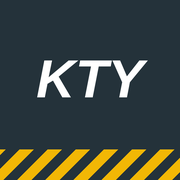
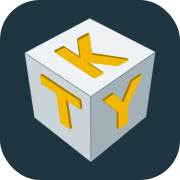
Add files via upload

diff --git a/payroll.js b/payroll.js
@@ -168,7 +168,7 @@ const MM=3.7795;
 const PPRINT_DEF={margin:{t:12,r:10,b:12,l:10},font:11,sign:true,sign_w:34,widths:{}};
 const pprint = () => { const s={...(S.settings.payroll_print||{}),...(activeSet()?.print||{})}; return {...PPRINT_DEF,...s,margin:{...PPRINT_DEF.margin,...(s.margin||{})},widths:{...(s.widths||{})}}; };
 const qrSvgOf = t => { const q=qrcode(0,'M'); q.addData(t); q.make(); return q.createSvgTag({cellSize:2,margin:0,scalable:true}); };
-function pgHead(p,t,qrUrl){ const B=BR(); return `<div class="pg-head">${B.logo?`<img src="${B.logo}" crossorigin="anonymous" alt="">`:`<span class="pg-mark">${esc(B.mark)}</span>`}<div class="grow"><b>${esc(B.company_th)}</b><span>${esc(B.company_en)}</span></div><div class="pg-ti"><b>${t}</b><span>งวดวันที่ ${periodLabel(p)}</span></div>${qrUrl&&window.qrcode?`<div class="pg-qr">${qrSvgOf(qrUrl)}<small>สแกนดูย้อนหลัง</small></div>`:''}</div>`; }
+function pgHead(p,t,qrUrl){ const B=BR(); return `<div class="pg-head">${B.logo?`<img src="${B.logo}" crossorigin="anonymous" alt="">`:`<img src="brand/kty-mark.svg" alt="">`}<div class="grow"><b>${esc(B.company_th)}</b><span>${esc(B.company_en)}</span></div><div class="pg-ti"><b>${t}</b><span>งวดวันที่ ${periodLabel(p)}</span></div>${qrUrl&&window.qrcode?`<div class="pg-qr">${qrSvgOf(qrUrl)}<small>สแกนดูย้อนหลัง</small></div>`:''}</div>`; }
 async function pdfFromPages(els, orient, name){
   await Promise.all([loadScript(LIB.h2c),loadScript(LIB.pdf)]); await document.fonts?.ready;
   const L=orient==='l', pdf=new jspdf.jsPDF({unit:'mm',format:'a4',orientation:L?'landscape':'portrait'});
@@ -228,7 +228,7 @@ async function paySlipsPreview(p, slips){
   const qrSvg=t=>{ const q=qrcode(0,'M'); q.addData(t); q.make(); return q.createSvgTag({cellSize:2,margin:0,scalable:true}); };
   const base=`${location.origin}${location.pathname}#pay/s/`, qrOf=s=>s.data.__emp?.qr_token?`${location.origin}${location.pathname}#id/${s.data.__emp.qr_token}`:base+s.id;
   for(let i=0;i<slips.length;i+=8){ const chunk=slips.slice(i,i+8);
-    pages.push(`<div class="a4 a4slips">${chunk.map(s=>{ const d=s.data; return `<div class="slip"><div class="sl-h">${logo?`<img src="${logo}" crossorigin="anonymous" alt="">`:`<span class="pg-mark sm">${esc(B.mark)}</span>`}<div class="grow"><b>${esc(B.company_short)}</b><span>สลิปเงินเดือน · งวด ${periodLabel(p)}</span></div><div class="sl-qr">${qrSvg(qrOf(s))}</div></div>
+    pages.push(`<div class="a4 a4slips">${chunk.map(s=>{ const d=s.data; return `<div class="slip"><div class="sl-h">${logo?`<img src="${logo}" crossorigin="anonymous" alt="">`:`<img src="brand/kty-mark.svg" alt="" style="width:26px;height:28px">`}<div class="grow"><b>${esc(B.company_short)}</b><span>สลิปเงินเดือน · งวด ${periodLabel(p)}</span></div><div class="sl-qr">${qrSvg(qrOf(s))}</div></div>
       <div class="sl-n"><b>${esc(d.name)}</b><span>${esc(d.emp_code||'')}${d.position?' · '+esc(d.position):''}</span></div>
       <div class="sl-r"><span>อัตราค่าแรง</span><b>${d.wage_type==='monthly'?`${fmtN(d.rate)} /เดือน`:`${fmtN(d.rate)} /วัน`}</b></div>
       <div class="sl-r"><span>วันทำงาน · OT</span><b>${fmtN(d.days)} วัน · ${fmtN(d.ot_hours)} ชม.</b></div>

diff --git a/index.html b/index.html
@@ -6,7 +6,8 @@
 <title>KTY Hub</title>
 <meta name="theme-color" content="#22313A">
 <link rel="manifest" href="manifest.json">
-<link rel="icon" href="icon-192.png">
+<link rel="icon" type="image/svg+xml" href="brand/kty-icon.svg">
+<link rel="icon" type="image/png" sizes="32x32" href="icon-32.png">
 <link rel="apple-touch-icon" sizes="180x180" href="icon-180.png">
 <meta name="apple-mobile-web-app-capable" content="yes">
 <meta name="apple-mobile-web-app-status-bar-style" content="black-translucent">
@@ -19,7 +20,7 @@
 /* ใช้รูปแบบสีที่เลือกไว้ก่อนวาดหน้า เพื่อไม่ให้จอกะพริบ */
 (function(){ try{ var t=localStorage.getItem('kty-theme'); if(t==='light'||t==='dark') document.documentElement.dataset.theme=t; }catch(e){} })();
 </script>
-<link rel="stylesheet" href="kty.css?v=310">
+<link rel="stylesheet" href="kty.css?v=320">
 
 </head>
 <body>
@@ -27,22 +28,22 @@
 <div id="offline" class="offline hidden"><div><b>ไม่มีการเชื่อมต่ออินเทอร์เน็ต</b>ระบบบันทึกได้เฉพาะตอนออนไลน์ เพื่อให้ข้อมูลตรงกันทุกเครื่อง เมื่อเชื่อมต่อแล้วหน้านี้จะหายไปเอง</div></div>
 
 <script src="config.js"></script>
-<script src="core.js?v=310"></script>
-<script src="attendance.js?v=310"></script>
-<script src="daily.js?v=310"></script>
-<script src="materials.js?v=310"></script>
-<script src="borrow.js?v=310"></script>
-<script src="forms.js?v=310"></script>
-<script src="paypdf.js?v=310"></script>
-<script src="payroll.js?v=310"></script>
-<script src="report.js?v=310"></script>
-<script src="self.js?v=310"></script>
-<script src="idcard.js?v=310"></script>
-<script src="issues.js?v=310"></script>
-<script src="wa.js?v=310"></script>
-<script src="adv.js?v=310"></script>
-<script src="studio.js?v=310"></script>
-<script src="hub.js?v=310"></script>
+<script src="core.js?v=320"></script>
+<script src="attendance.js?v=320"></script>
+<script src="daily.js?v=320"></script>
+<script src="materials.js?v=320"></script>
+<script src="borrow.js?v=320"></script>
+<script src="forms.js?v=320"></script>
+<script src="paypdf.js?v=320"></script>
+<script src="payroll.js?v=320"></script>
+<script src="report.js?v=320"></script>
+<script src="self.js?v=320"></script>
+<script src="idcard.js?v=320"></script>
+<script src="issues.js?v=320"></script>
+<script src="wa.js?v=320"></script>
+<script src="adv.js?v=320"></script>
+<script src="studio.js?v=320"></script>
+<script src="hub.js?v=320"></script>
 <script>boot();</script>
 </body>
 </html>

diff --git a/core.js b/core.js
@@ -3,13 +3,13 @@
    ตั้งค่าการเชื่อมต่อ Supabase — Project Settings > API Keys
    ใส่ Project URL และ Publishable key (sb_publishable_...) เท่านั้น
    ===================================================================== */
-const SUPABASE_URL = (window.KTY_CONFIG&&window.KTY_CONFIG.url) || 'https://mydytzlrevzjpqusaohu.supabase.co';
-const SUPABASE_ANON_KEY = (window.KTY_CONFIG&&window.KTY_CONFIG.key) || 'sb_publishable_btZKjUqx12VOyTnyMAZOGQ_jpmiLHfl';
+const SUPABASE_URL = (window.KTY_CONFIG&&window.KTY_CONFIG.url) || 'https://YOUR-PROJECT.supabase.co';
+const SUPABASE_ANON_KEY = (window.KTY_CONFIG&&window.KTY_CONFIG.key) || 'YOUR-ANON-KEY';
 /* ---------- แบรนด์ (แอดมินแก้ได้ที่ ตั้งค่าระบบ > แบรนด์) ---------- */
 const BRAND_DEFAULT = { app:'KTY Hub', mark:'KTY', tagline:'ระบบบริหารงานก่อสร้าง', company_th:'ห้างหุ้นส่วนจำกัด กิตติยาก่อสร้าง 1994',
   company_short:'หจก.กิตติยาก่อสร้าง 1994', company_en:'KITTIYA CONSTRUCTION 1994 LIMITED PARTNERSHIP', logo:'', color:'#F2B705' };
 const BR = () => ({ ...BRAND_DEFAULT, ...Object.fromEntries(Object.entries((typeof S!=='undefined'&&(S.settings?.brand||S.brand))||{}).filter(([,v])=>v!==''&&v!=null)) });
-const markHTML = (px) => { const b=BR(), st=px?`width:${px}px;height:${px}px;font-size:${Math.round(px*.3)}px`:''; return b.logo?`<div class="mark mark-img" style="${st}"><img src="${b.logo}" alt="${b.app}"></div>`:`<div class="mark" style="${st}"><span>${b.mark}</span></div>`; };
+const markHTML = (px) => { const b=BR(), st=px?`width:${px}px;height:${px}px;font-size:${Math.round(px*.3)}px`:''; return b.logo?`<div class="mark mark-img" style="${st}"><img src="${b.logo}" alt="${b.app}"></div>`:`<div class="mark mark-kty" style="${st}"><img src="brand/kty-icon.svg" alt="${b.app}"></div>`; };
 const T = s => (typeof S!=='undefined'&&S.settings?.labels?.[s]) || s;
 function applyBrand(){
   const b=BR(); document.title=b.app;

diff --git a/hub.js b/hub.js
@@ -1,7 +1,7 @@
 /* =====================================================================
    KTY Hub — โครงหน้า: แถบเมนูด้านข้าง / ลิ้นชักเมนูบนมือถือ / ตัวเลือกไซต์
    ===================================================================== */
-const HUB_VERSION = '3.1';
+const HUB_VERSION = '3.2';
 const MOD = {
   wa:       { t:'ขออนุมัติงาน',        hue:'#0E7C86', i:'<path d="M9 11l3 3 8-8"/><path d="M20 12v7a2 2 0 0 1-2 2H6a2 2 0 0 1-2-2V5a2 2 0 0 1 2-2h9"/>' },
   att:      { t:'เช็คชื่อ',            hue:'#2E9E5B', i:'<rect x="4" y="5" width="16" height="16" rx="2"/><path d="M8 3v4M16 3v4M4 10h16M9 15l2 2 4-4"/>' },

diff --git a/kty.css b/kty.css
@@ -507,3 +507,6 @@ details.perm>summary::-webkit-details-marker{display:none}
 /* ================= ตั้งค่าขั้นสูง ================= */
 .advrow{display:flex;align-items:center;gap:8px}.advrow .in{height:38px;flex:1}.advrow input[type=color]{width:40px;height:38px;border:1px solid var(--line);border-radius:8px;padding:2px;background:var(--surface)}
 .advgrid{display:grid;gap:10px;grid-template-columns:repeat(auto-fill,minmax(200px,1fr))}
+
+.mark.mark-kty{background:transparent!important;box-shadow:none!important;padding:0;overflow:visible}.mark.mark-kty img{width:100%;height:100%;object-fit:contain;display:block}
+.mark.mark-kty::after,.mark.mark-kty::before{display:none!important}
